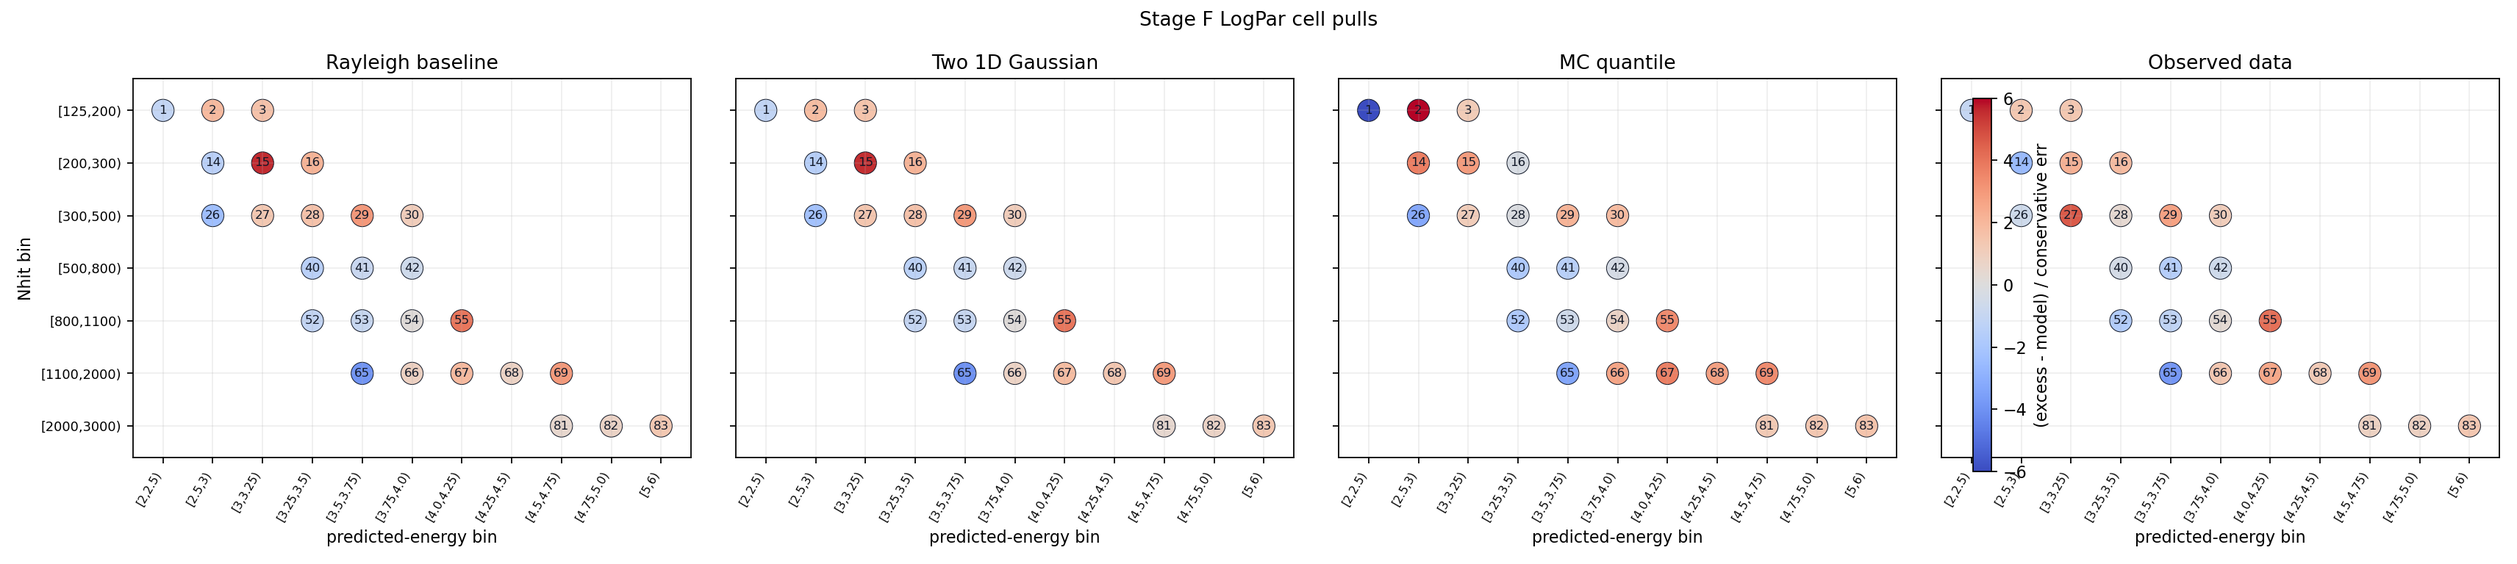
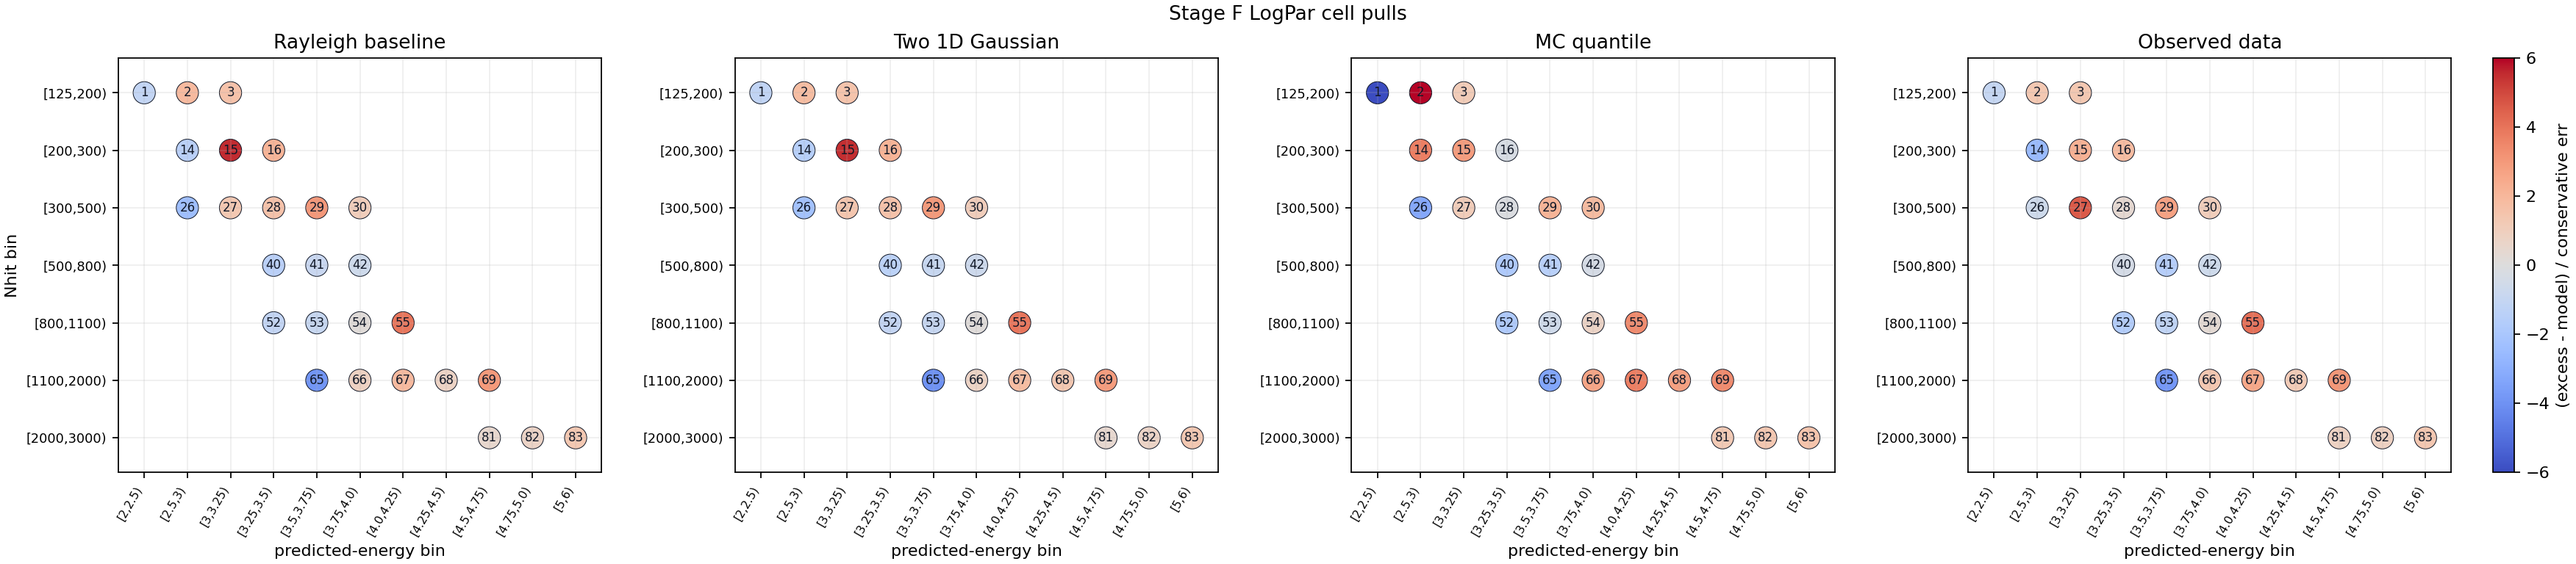
report(apply): fix v5 PSF pull-grid colorbar layout

diff --git a/apply/report/build_v5_psf_comparison_report.py b/apply/report/build_v5_psf_comparison_report.py
@@ -919,8 +919,17 @@ def psf_profile_grid_figures(runs: Dict[str, Dict[str, object]]) -> str:
 def plot_pull_grid(runs: Dict[str, Dict[str, object]], path: Path) -> None:
     plt = setup_matplotlib()
     n_methods = len(METHODS)
-    fig, axes = plt.subplots(1, n_methods, figsize=(5.1 * n_methods + 1.0, 4.8), dpi=160, sharex=True, sharey=True, squeeze=False)
-    axes_arr = axes.reshape(-1)
+    fig = plt.figure(figsize=(5.1 * n_methods + 1.5, 4.8), dpi=160, constrained_layout=True)
+    grid = fig.add_gridspec(1, n_methods + 1, width_ratios=[1.0] * n_methods + [0.045], wspace=0.08)
+    axes_list = []
+    share_ax = None
+    for idx in range(n_methods):
+        ax = fig.add_subplot(grid[0, idx], sharex=share_ax, sharey=share_ax)
+        if share_ax is None:
+            share_ax = ax
+        axes_list.append(ax)
+    axes_arr = np.asarray(axes_list, dtype=object)
+    cax = fig.add_subplot(grid[0, n_methods])
     labels_nhit = sorted(
         {
             str(value)
@@ -963,9 +972,8 @@ def plot_pull_grid(runs: Dict[str, Dict[str, object]], path: Path) -> None:
     for ax in axes_arr:
         ax.set_xlabel("predicted-energy bin")
     if sc is not None:
-        fig.colorbar(sc, ax=axes_arr.tolist(), shrink=0.86, label="(excess - model) / conservative err")
+        fig.colorbar(sc, cax=cax, label="(excess - model) / conservative err")
     fig.suptitle("Stage F LogPar cell pulls")
-    fig.tight_layout()
     path.parent.mkdir(parents=True, exist_ok=True)
     fig.savefig(path)
     plt.close(fig)
